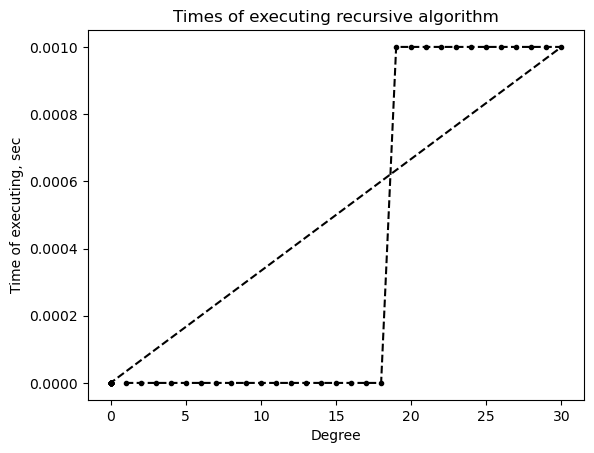
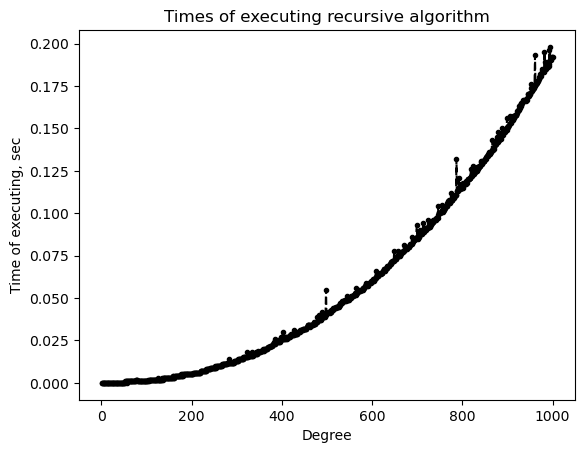
Дошлифована ЛР6

diff --git a/37/Вариант 6/lr6/lr6.md b/37/Вариант 6/lr6/lr6.md
@@ -50,9 +50,9 @@ def series_sum(x, n):
     return series_sum(x, n - 1) + series_term(x, n)
 
 func = usage_time.get_usage_time()(series_sum)
-n = 50
+n = 1000
 degrees = [0] * n
-for i in range(1, 31):
+for i in range(1, 1001):
     degrees[i-1] = i
 times = [0] * n
 times_inc = 0
@@ -118,6 +118,10 @@ plot.ylabel("Time of executing, sec")
 \end{document}
 ```
 
+![](./recursive-1.png)
+
+Верхняя граница размерности данной задачи - 1000 рекурсивных вызовов, что подтверждается как теорией (в Python стоит ограничение на 1000 вызовов), так и практикой - у меня просто крашился алгоритм при попытке сделать больше вызовов.
+
 ### Реализация вычисления этого же ряда без использования рекурсии
 
 
@@ -151,10 +155,10 @@ def series_sum_large_n(x, n):
     return total_sum
 
 func = usage_time.get_usage_time()(series_sum_large_n)
-n = 50
+n = 500
 degrees = [0] * n
-for i in range(1, 31):
-    degrees[i-1] = i
+for i in range(1, n+1):
+    degrees[i-1] = i*500
 times = [0] * n
 times_inc = 0
 for i in degrees:
@@ -162,7 +166,7 @@ for i in degrees:
     times_inc += 1
 
 plot.plot(degrees, times, "k.--")
-plot.title("Times of executing recursive algorithm")
+plot.title("Times of executing iterative algorithm")
 plot.xlabel("Degree")
 plot.ylabel("Time of executing, sec")
 ```
@@ -176,7 +180,7 @@ plot.ylabel("Time of executing, sec")
 
 
     
-![png](lr6_files/lr6_5_1.png)
+![png](lr6_files/lr6_7_1.png)
     
 
 
@@ -214,62 +218,9 @@ plot.ylabel("Time of executing, sec")
 \end{document}
 ```
 
+![](iterative-1.png)
+
 ### Выкладки к заданию 3
-
-
-```python
-import sys
-
-def get_recursion_limit():
-    """Определение максимальной глубины рекурсии"""
-    return sys.getrecursionlimit()
-
-def estimate_max_n():
-    """
-    Оценка максимального n для рекурсивной реализации
-    С учетом того, что каждый вызов требует ~1 фрейм в стеке
-    """
-    recursion_limit = get_recursion_limit()
-    
-    # Безопасная оценка: оставляем запас для системных вызовов
-    safe_limit = recursion_limit - 100
-    
-    # Для нашей рекурсии: series_sum(x, n) вызывает series_sum(x, n-1)
-    # Глубина рекурсии = n
-    max_n = safe_limit
-    
-    print(f"Лимит рекурсии в системе: {recursion_limit}")
-    print(f"Безопасное максимальное n: {max_n}")
-    print(f"При n > {max_n} возможно переполнение стека")
-    
-    return max_n
-
-# Практическая проверка
-def test_recursion_depth():
-    """Тестирование фактической глубины рекурсии"""
-    def recursive_test(n, depth=0):
-        if n <= 0:
-            return depth
-        return recursive_test(n-1, depth+1)
-    
-    try:
-        # Поиск максимальной глубины
-        for n in [100, 500, 1000, 2000, 3000]:
-            try:
-                result = recursive_test(n)
-                print(f"n = {n}: успешно, глубина = {result}")
-            except RecursionError:
-                print(f"n = {n}: переполнение стека")
-                break
-    except RecursionError:
-        print("Достигнут предел рекурсии")
-
-# Запуск оценки
-if __name__ == "__main__":
-    estimate_max_n()
-    print("\nПрактическая проверка:")
-    test_recursion_depth()
-```
 
 
 ```python
@@ -302,7 +253,36 @@ def series_sum_cached(x, n, cache=None):
     # Сохраняем в кэш
     cache[(x, n)] = result
     return result
+
+func = usage_time.get_usage_time()(series_sum_cached)
+n = 1000
+degrees = [0] * n
+for i in range(1, 1001):
+    degrees[i-1] = i
+times = [0] * n
+times_inc = 0
+for i in degrees:
+    times[times_inc] = func(2, i)
+    times_inc += 1
+
+plot.plot(degrees, times, "k.--")
+plot.title("Times of executing recursive cached algorithm")
+plot.xlabel("Degree")
+plot.ylabel("Time of executing, sec")
 ```
+
+
+
+
+    Text(0, 0.5, 'Time of executing, sec')
+
+
+
+
+    
+![png](lr6_files/lr6_11_1.png)
+    
+
 
 
 ```python
@@ -316,12 +296,10 @@ def cache_decorator(func):
     def wrapper(x, n):
         key = (x, n)
         if key in cache:
-            print(f"Использован кэш для n={n}")
             return cache[key]
         
         result = func(x, n)
         cache[key] = result
-        print(f"Вычислен и сохранен результат для n={n}: {result:.6f}")
         return result
     
     return wrapper
@@ -343,4 +321,33 @@ def series_sum_decorated(x, n):
     
     # Рекурсивный вызов
     return series_sum_decorated(x, n - 1) + term
+
+func = usage_time.get_usage_time()(series_sum_decorated)
+n = 100
+degrees = [0] * n
+for i in range(1, n+1):
+    degrees[i-1] = i*100
+times = [0] * n
+times_inc = 0
+for i in degrees:
+    times[times_inc] = func(2, i)
+    times_inc += 1
+
+plot.plot(degrees, times, "k.--")
+plot.title("Times of executing recursive cached algorithm")
+plot.xlabel("Degree")
+plot.ylabel("Time of executing, sec")
 ```
+
+
+
+
+    Text(0, 0.5, 'Time of executing, sec')
+
+
+
+
+    
+![png](lr6_files/lr6_12_1.png)
+    
+
